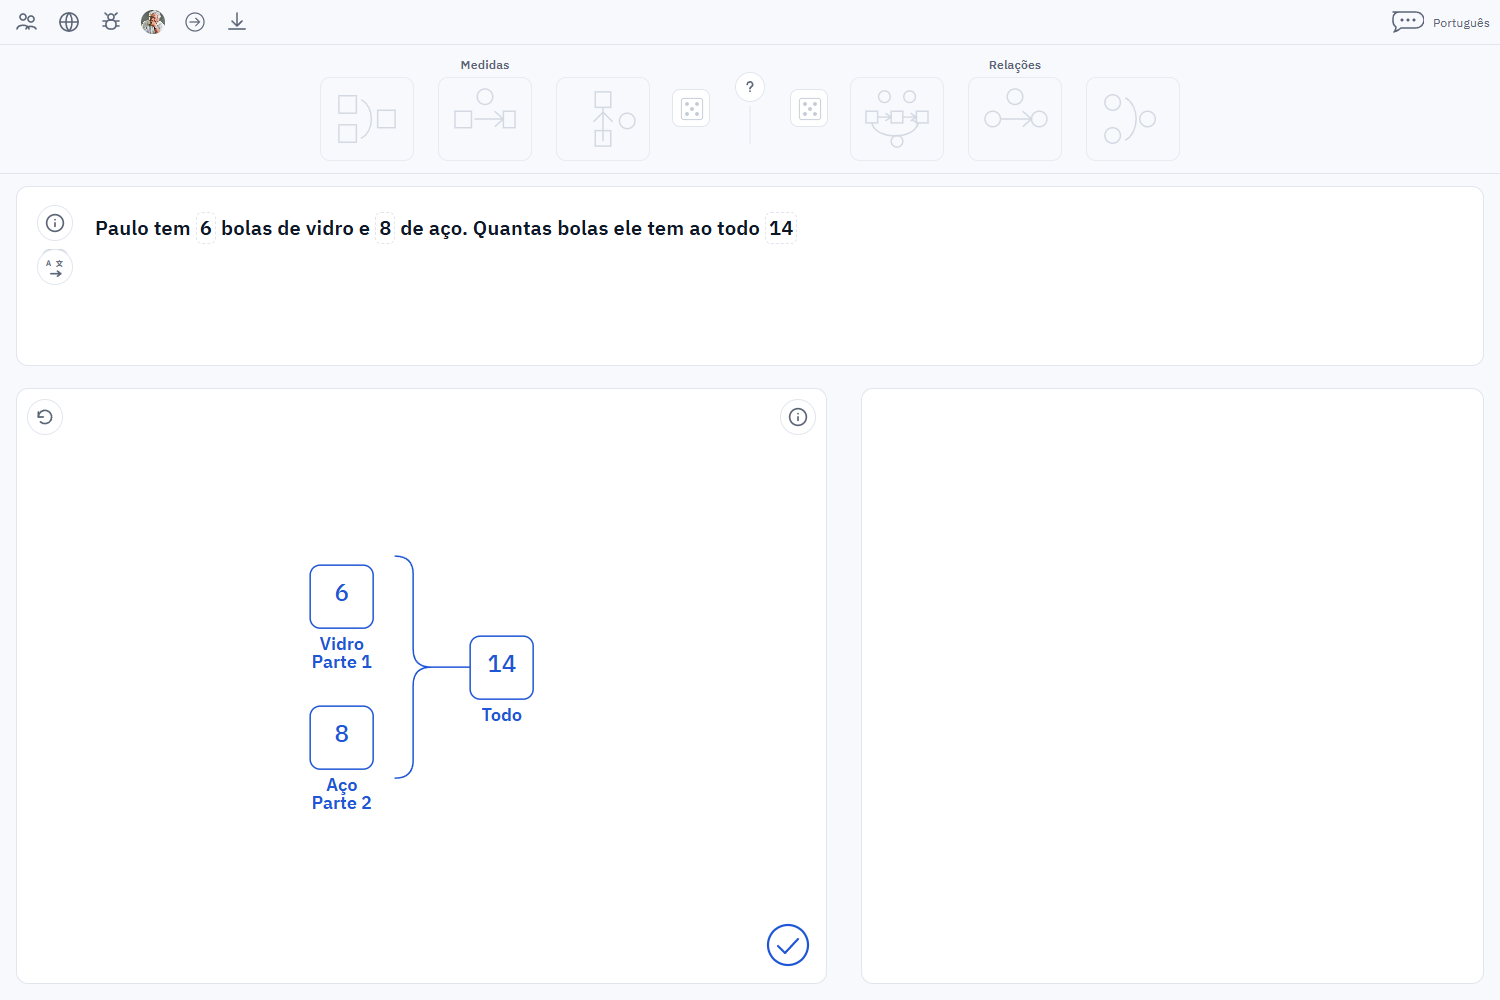
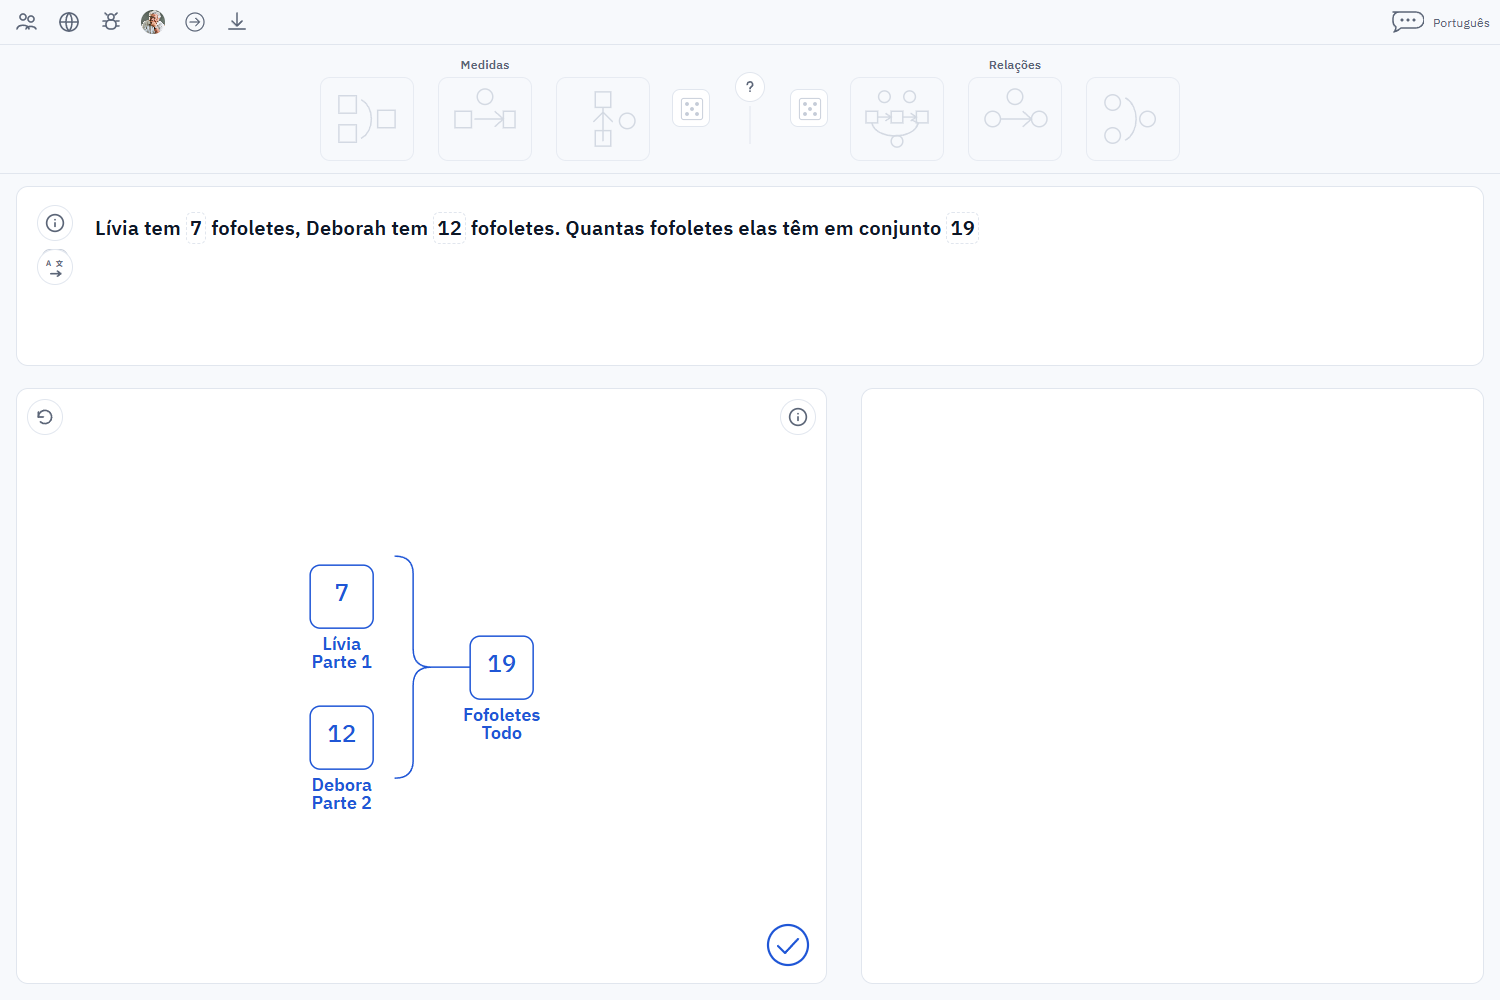
fix(web): rotulo da figura sempre fora da caixa, como no desktop (vazia ou com valor)
O centro da caixa fica so para o valor ou "?". Capturas de navegador real em composicao e transformacao; matriz de paridade atualizada.

Claude-Session: https://claude.ai/code/session_01UZEss3zCfnBdt59Detz4oD

diff --git a/web-poc/src/cena-gerard/FiguraCenaGerard.tsx b/web-poc/src/cena-gerard/FiguraCenaGerard.tsx
@@ -125,13 +125,12 @@ export function FiguraCenaGerard({ figura, aoEditarValor, destacada, ocupado, ao
         rótulo/papel. */}
     {figura.subtitulo && <text className="scene-figure-subtitle"
       x={figura.x + figura.largura / 2} y={coordenadaYDoSubtitulo(figura)}>{figura.subtitulo}</text>}
-    <text className={`${conhecida || engatada ? "scene-figure-valor" : ""}${figura.subtitulo ? " scene-figure-role" : ""}`.trim() || undefined}
-      x={figura.x + figura.largura / 2}
-      y={conhecida || engatada ? coordenadaYDoValor(figura) : coordenadaYDoRotulo(figura)}>
-      {conhecida ? figura.valor : engatada ? "?" : figura.rotulo}
-    </text>
-    {(conhecida || engatada) && <text className="scene-figure-role"
-      x={figura.x + figura.largura / 2} y={coordenadaYDoRotulo(figura, true)}>{figura.rotulo}</text>}
+    {(conhecida || engatada) && <text className="scene-figure-valor"
+      x={figura.x + figura.largura / 2} y={coordenadaYDoValor(figura)}>
+      {conhecida ? figura.valor : "?"}
+    </text>}
+    {figura.rotulo && <text className="scene-figure-role"
+      x={figura.x + figura.largura / 2} y={coordenadaYDoRotulo(figura)}>{figura.rotulo}</text>}
     <LupaCenaGerard figura={figura} aoAlternarEixo={aoAlternarEixo} />
   </g>{deveMostrarSeletorSinal && seletorSinal && <EscolhaSinalFigura
       figuraId={figura.id} papelNome={figura.rotulo} ocupado={Boolean(ocupado)}

diff --git a/web-poc/src/cena-gerard/geometriaSvg.ts b/web-poc/src/cena-gerard/geometriaSvg.ts
@@ -29,15 +29,13 @@ export function caminhoDoConector(c: ConectorCena) {
 }
 
 /**
- * Com valor (ou "?") na caixa, o rótulo nunca disputa o centro: o desktop
- * (ElementoVergnaud.desenhar) empilha o bloco de rótulo fora da caixa,
- * abaixo salvo ACIMA. Sem valor e sem subtítulo em CENTRO, o rótulo ocupa a caixa.
+ * O rótulo nunca ocupa a caixa: o desktop (ElementoVergnaud.desenhar) empilha o
+ * bloco de rótulo fora dela, abaixo salvo ACIMA, com ou sem valor.
  */
-export function coordenadaYDoRotulo(f: FiguraCena, comValorNaCaixa = false) {
+export function coordenadaYDoRotulo(f: FiguraCena) {
   if (f.posicao_rotulo === "ACIMA") return f.y - 14;
   if (f.posicao_rotulo === "ABAIXO" || f.subtitulo) return f.y + f.altura + 40;
-  if (comValorNaCaixa) return f.y + f.altura + 22;
-  return f.y + f.altura / 2 + 4;
+  return f.y + f.altura + 22;
 }
 
 /**

diff --git a/.agents/skills/gerard-paridade-web-desktop/references/matriz-paridade.md b/.agents/skills/gerard-paridade-web-desktop/references/matriz-paridade.md
@@ -15,7 +15,7 @@ Atualize a cada questão resolvida; não marque "verificado" por inferência do 
 | Restaurar | Main.registrarAcaoRestauracao | api.reiniciar | TentativaModelagemAditiva.restaurar | existe nos dois |
 | Registro para no limite de 3 rejeições (incógnita e operação) | **verificado**: mouse real, log real | **verificado só por serviço** (`TesteWebRegistroParaNoLimite`); falta HTTP/navegador | TentativaModelagemAditiva | lacuna de evidência na web |
 | Fluxo de conclusão (selo, tip Sim/Não, nova situação) | **verificado** (mouse real, 8 capturas idênticas depois de passar a usar `EscolhaConclusaoModelagem`) | **verificado** (2026-10-10): `SeloConclusao.tsx` + `ProjetorConclusaoWeb` + rota `/api/acoes/conclusao`; navegador com mouse real, 20 verificações, 2 execuções (`tests/web/e2e_conclusao_fluxo_web.mjs`); `TesteWebConclusaoFluxo` | EscolhaConclusaoModelagem (decisão e pausa de 1150 ms); textos de `ui.completion.*` | paridade fechada; o selo do desktop fica fixo e o da web segue o texto "Modelagem concluída" que some após 4 s (diferença de realização herdada) |
-| Rótulo com valor na caixa (ex.: "Todo" com `14`) | bloco de rótulo sempre fora da caixa (abaixo, salvo ACIMA) | **verificado** (2026-10-11): `coordenadaYDoRotulo(f, comValorNaCaixa)` põe o rótulo abaixo; viewport reserva o espaço; captura em `web_conclusao_20261010/conclusao_apos_nao.png`, e2e 20/20 | cena (`FiguraDiagrama.getLinhasRotulo`) | paridade fechada; o rótulo no centro só ocorre com a caixa vazia e sem subtítulo (diferença anterior do desktop, que desenha abaixo também vazio: a verificar)
+| Rótulo fora da caixa (com ou sem valor; ex.: "Todo" com `14`) | bloco de rótulo sempre fora da caixa (abaixo, salvo ACIMA) | **verificado** (2026-10-11): `coordenadaYDoRotulo` põe o rótulo abaixo sempre; o centro da caixa é só do valor/"?"; viewport reserva o espaço; capturas vazio/preenchido em composição e transformação em `web_conclusao_20261010/`; e2e de conclusão 20/20 | cena (`FiguraDiagrama.getLinhasRotulo`) | paridade fechada
 | Anotação com balão ao passar o mouse | RenderizadorBalaoAnotacao | **sem equivalente encontrado** | a definir | lacuna: levantar a fonte real do texto antes de propor |
 | Selo de erro (marca vermelha ao lado do diagrama) | SeloErroModelagem | a verificar (feedback pela cena) | cena/feedback | a verificar |
 | Seleção de marcador do texto | HandlerSelecaoMarcadorTexto | a verificar | a verificar | a verificar |

diff --git a/.claude/skills/gerard-paridade-web-desktop/references/matriz-paridade.md b/.claude/skills/gerard-paridade-web-desktop/references/matriz-paridade.md
@@ -15,7 +15,7 @@ Atualize a cada questão resolvida; não marque "verificado" por inferência do 
 | Restaurar | Main.registrarAcaoRestauracao | api.reiniciar | TentativaModelagemAditiva.restaurar | existe nos dois |
 | Registro para no limite de 3 rejeições (incógnita e operação) | **verificado**: mouse real, log real | **verificado só por serviço** (`TesteWebRegistroParaNoLimite`); falta HTTP/navegador | TentativaModelagemAditiva | lacuna de evidência na web |
 | Fluxo de conclusão (selo, tip Sim/Não, nova situação) | **verificado** (mouse real, 8 capturas idênticas depois de passar a usar `EscolhaConclusaoModelagem`) | **verificado** (2026-10-10): `SeloConclusao.tsx` + `ProjetorConclusaoWeb` + rota `/api/acoes/conclusao`; navegador com mouse real, 20 verificações, 2 execuções (`tests/web/e2e_conclusao_fluxo_web.mjs`); `TesteWebConclusaoFluxo` | EscolhaConclusaoModelagem (decisão e pausa de 1150 ms); textos de `ui.completion.*` | paridade fechada; o selo do desktop fica fixo e o da web segue o texto "Modelagem concluída" que some após 4 s (diferença de realização herdada) |
-| Rótulo com valor na caixa (ex.: "Todo" com `14`) | bloco de rótulo sempre fora da caixa (abaixo, salvo ACIMA) | **verificado** (2026-10-11): `coordenadaYDoRotulo(f, comValorNaCaixa)` põe o rótulo abaixo; viewport reserva o espaço; captura em `web_conclusao_20261010/conclusao_apos_nao.png`, e2e 20/20 | cena (`FiguraDiagrama.getLinhasRotulo`) | paridade fechada; o rótulo no centro só ocorre com a caixa vazia e sem subtítulo (diferença anterior do desktop, que desenha abaixo também vazio: a verificar)
+| Rótulo fora da caixa (com ou sem valor; ex.: "Todo" com `14`) | bloco de rótulo sempre fora da caixa (abaixo, salvo ACIMA) | **verificado** (2026-10-11): `coordenadaYDoRotulo` põe o rótulo abaixo sempre; o centro da caixa é só do valor/"?"; viewport reserva o espaço; capturas vazio/preenchido em composição e transformação em `web_conclusao_20261010/`; e2e de conclusão 20/20 | cena (`FiguraDiagrama.getLinhasRotulo`) | paridade fechada
 | Anotação com balão ao passar o mouse | RenderizadorBalaoAnotacao | **sem equivalente encontrado** | a definir | lacuna: levantar a fonte real do texto antes de propor |
 | Selo de erro (marca vermelha ao lado do diagrama) | SeloErroModelagem | a verificar (feedback pela cena) | cena/feedback | a verificar |
 | Seleção de marcador do texto | HandlerSelecaoMarcadorTexto | a verificar | a verificar | a verificar |
